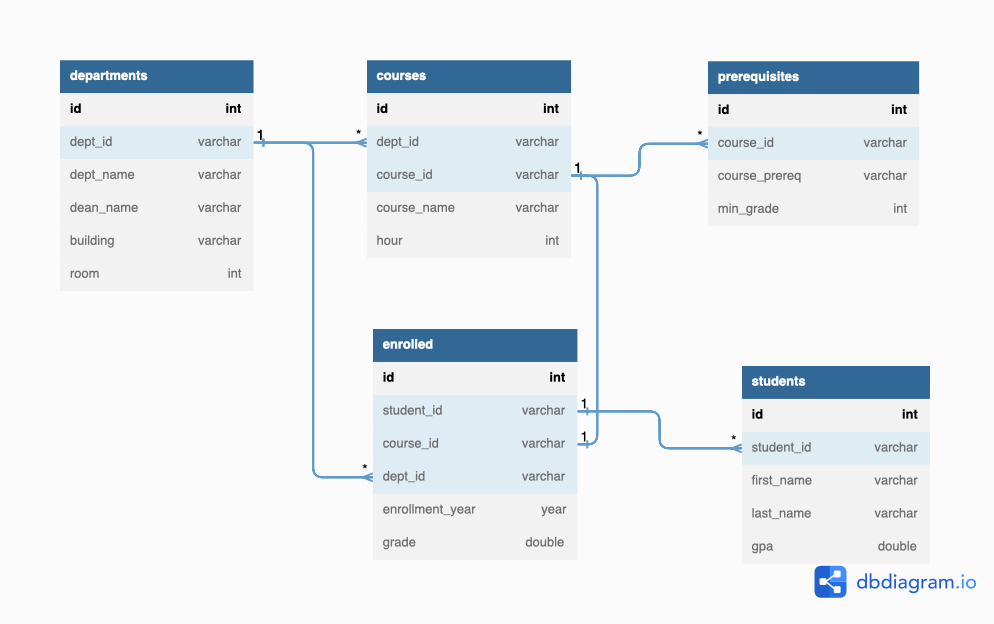
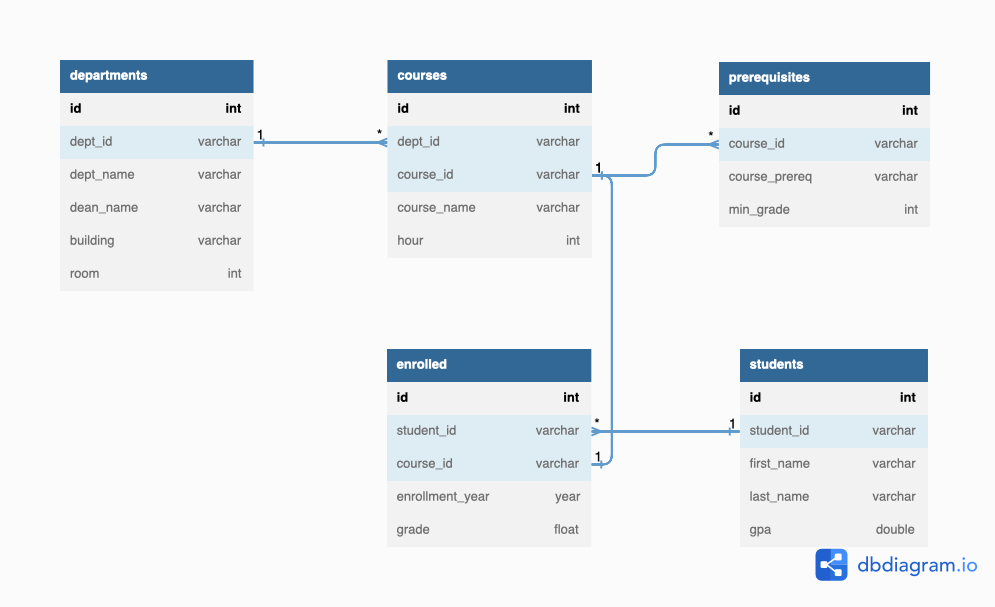
Fix SRD P1 image schema fx
Fixed erd.png, schema, functions

diff --git a/_posts/2023-02-03-student-registration-database-part1.md b/_posts/2023-02-03-student-registration-database-part1.md
@@ -137,7 +137,7 @@ CREATE TABLE students(
     student_id VARCHAR(10) NOT NULL UNIQUE,
     first_name VARCHAR(255) NOT NULL,
     last_name VARCHAR(255) NOT NULL,
-    gpa DOUBLE(3,2)
+    gpa FLOAT NOT NULL DEFAULT 0
 );
 
 CREATE TABLE prerequisites(
@@ -154,12 +154,10 @@ CREATE TABLE enrolled(
     id INTEGER PRIMARY KEY AUTO_INCREMENT,
     student_id VARCHAR(10) NOT NULL,
     course_id VARCHAR(10) NOT NULL,
-    dept_id VARCHAR(255) NOT NULL,  
     enrollment_year YEAR NOT NULL,
     grade INTEGER,
     FOREIGN KEY (student_id) REFERENCES students(student_id) ON UPDATE CASCADE,
     FOREIGN KEY (course_id) REFERENCES courses(course_id) ON UPDATE CASCADE,
-    FOREIGN KEY (dept_id) REFERENCES departments(dept_id) ON UPDATE CASCADE,
     UNIQUE (student_id, course_id, enrollment_year),
     CHECK (grade >= 0 AND grade <= 100)
 );
@@ -578,11 +576,9 @@ BEGIN
         course_prereq VARCHAR(10) REFERENCES courses(course_id)
     );
     
-    /*Does this course have prereqs? 
-    If yes, insert them into temp_prereq -> filter out the course*/
+    /*Does this course have prereqs? If yes, insert them into temp_prereq -> filter out the course*/
     INSERT INTO tempo_prereqs(course_prereq, min_grade)
-    SELECT course_prereq_id, min_grade FROM prerequisites 
-      WHERE course_id = NEW.course_id;
+    SELECT course_prereq_id, min_grade FROM prerequisites WHERE course_id = NEW.course_id;
     /*New course ID we want to insert*/
 
     /*Are there any unmet prereqs? -> student-specific*/
@@ -590,8 +586,7 @@ BEGIN
     SELECT course_prereq
     FROM tempo_prereqs AS tp
     WHERE tp.course_prereq NOT IN
-        (SELECT e.course_id FROM enrolled AS e WHERE 
-        e.student_id= NEW.student_id AND sc.grade > tp.min_grade);
+        (SELECT e.course_id FROM enrolled AS e WHERE e.student_id= NEW.student_id AND e.grade > tp.min_grade);
 
     /*If there are, insert will fail and message the user*/
     IF EXISTS (SELECT course_prereq FROM unmet_prereqs) THEN
@@ -661,7 +656,7 @@ def updating_grade(student_id, course_id, year, grade):
 # File: app.py
 @app.command()
 def update_grade():
-    user_answer = input("Do you want to enroll a student? (y/n): ").strip().lower()
+    user_answer = input("Do you want to update course grade? (y/n): ").strip().lower()
 
     if user_answer == "y":
         student_id = input("Enter your student id: ").strip().lower()
@@ -690,7 +685,8 @@ In the part 1 of this project, I learned:
 <ol>
   <li>Creating ERD (Entity Relationship Diagram)</li>
   <li>Creating DDL (Data Definition Language: CREATE), DML (Data Manipulation Language: SELECT, INSERT, UPDATE), TCL (Transaction Control Language: COMMIT)</li>
-  <li>Applying constraints on MySQL schema </li>
+  <li>Applying constraints on MySQL schema</li>
+  <li>Applying parameterized statements</li>
   <li>Creating trigger and temporary table</li>
   <li>Building CLI-based application</li>
 </ol>
